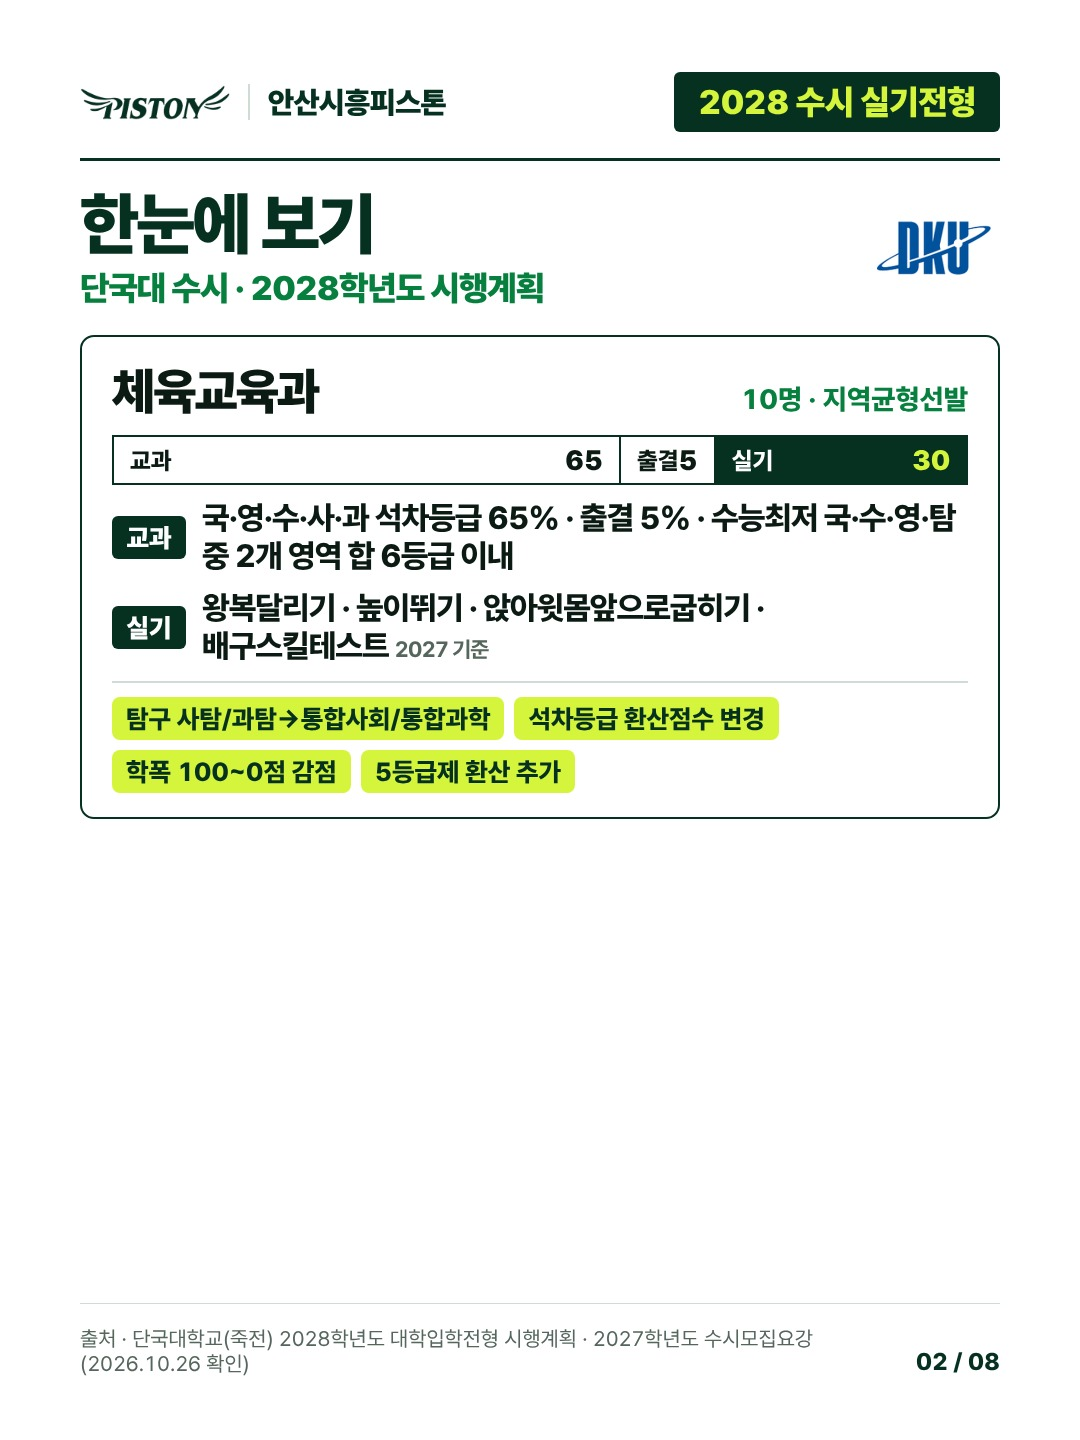
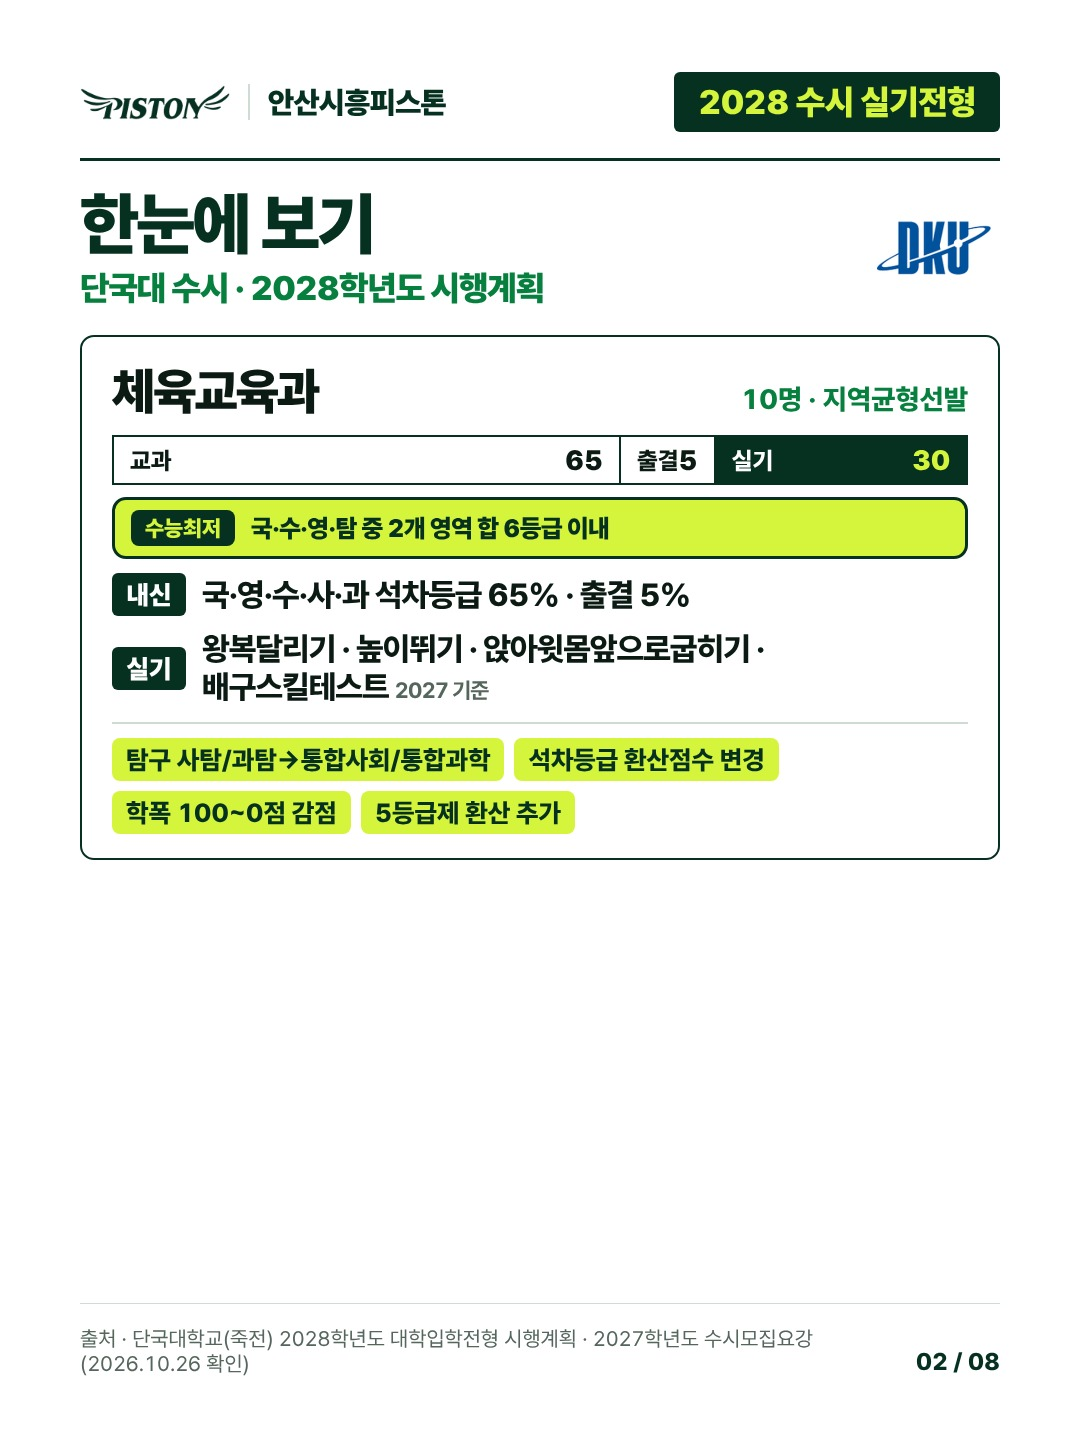
수능최저 강조 박스, 반영 표 정리, 출결 구간표
Claude-Session: https://claude.ai/code/session_01EGTn7G8nWP1yv5M2jqmoFb

Changed region(s): [[0.0611, 0.3438, 0.9167, 0.5938]]

diff --git a/social/out/dankook-jukjeon-susi/blog.md b/social/out/dankook-jukjeon-susi/blog.md
@@ -11,7 +11,7 @@
 ### 수시 학생부교과 지역균형선발 — 10명
 - 반영비율: 교과 65% + 출결 5% + 실기 30% (일괄합산 · 교과 65% + 학생부 비교과(출결) 5% + 실기 30%)
 - 실기종목: 왕복달리기(10m×4회) 25% · 100점 (100~36), 높이뛰기 25% · 100점 (100~36), 앉아윗몸앞으로굽히기 25% · 100점 (100~36), 배구스킬테스트(30초) 25% · 100점 (100~36)
-- 수능최저: 국·수·영·탐(통합사회·통합과학 중 1과목) 중 2개 영역 합 6등급 이내 · 실기 배점은 2027 요강 기준(뒷장)
+- 실기 배점은 2027 요강 기준(뒷장)
 
 [이미지: post-3.jpg]
 
@@ -69,7 +69,18 @@
 | 2027 | 지역균형선발 '지원 불가' 표기 |
 | 2028 | 최고 100점 ~ 최저 0점 감점 · 8~9호 부적격 |
 
-※ 비교과(출결) 점수: 2027 모집요강은 미인정(무단) 결석 0~5일 100점·6~10일 98점·11~15일 94점·16~20일 80점·21~30일 60점·31일 이상 0점 / 2028 전형계획안은 '미인정출결 일수에 따른 차등 배점'으로만 기재(구간별 점수 미기재)
+**비교과(출결) 점수 · 미인정(무단) 결석 일수별**
+
+| 결석 일수 | 2027 | 2028 |
+| --- | --- | --- |
+| 0~5일 | 100점 | 미기재 |
+| 6~10일 | 98점 | 미기재 |
+| 11~15일 | 94점 | 미기재 |
+| 16~20일 | 80점 | 미기재 |
+| 21~30일 | 60점 | 미기재 |
+| 31일 이상 | 0점 | 미기재 |
+
+※ 2028 전형계획안은 '미인정출결 일수에 따른 차등 배점'으로만 기재
 
 [이미지: post-7.jpg]
 
